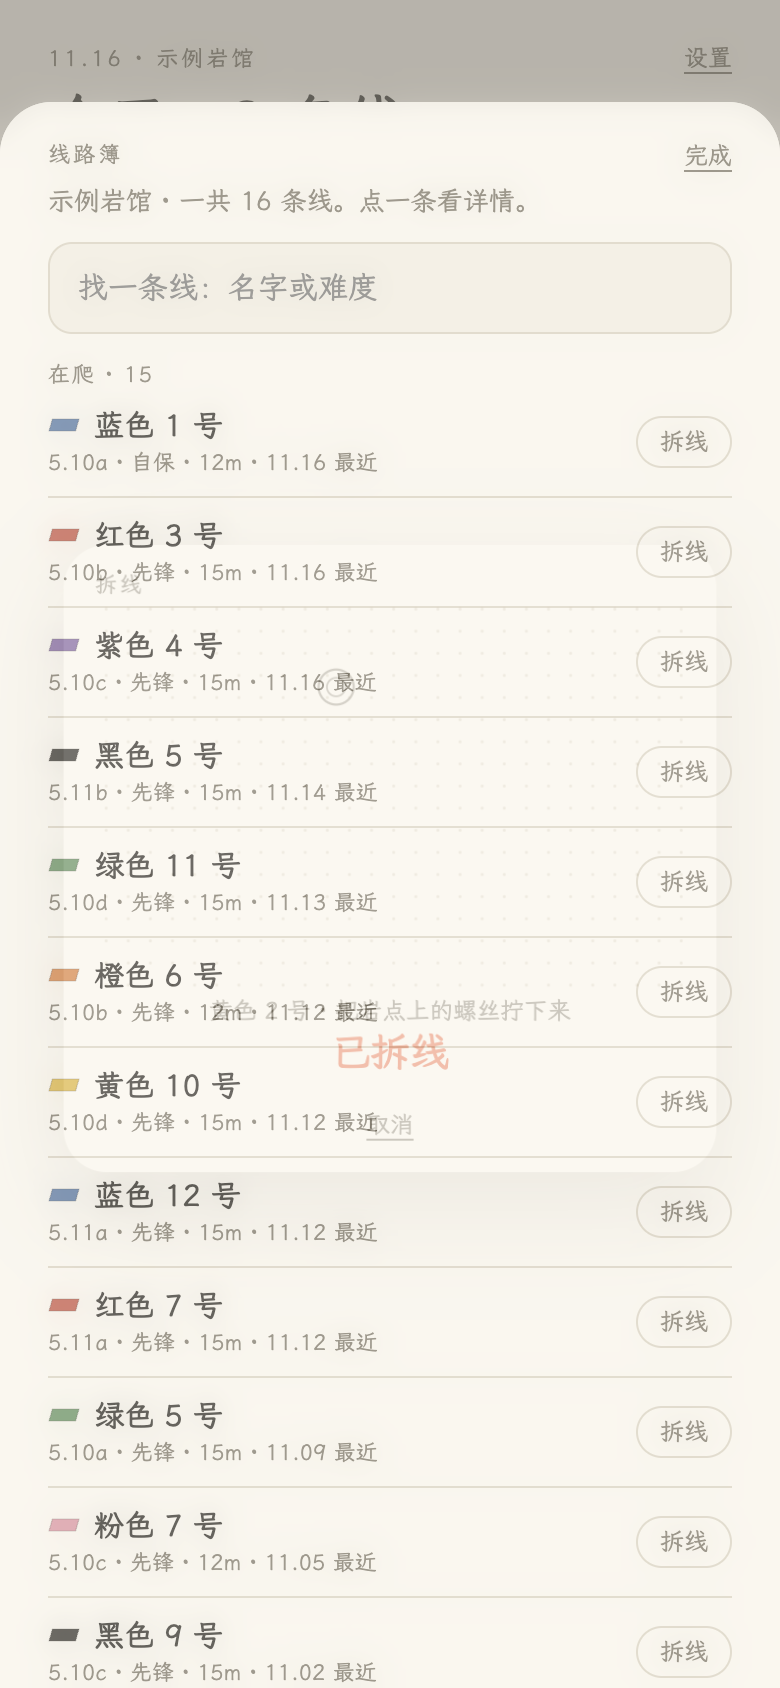
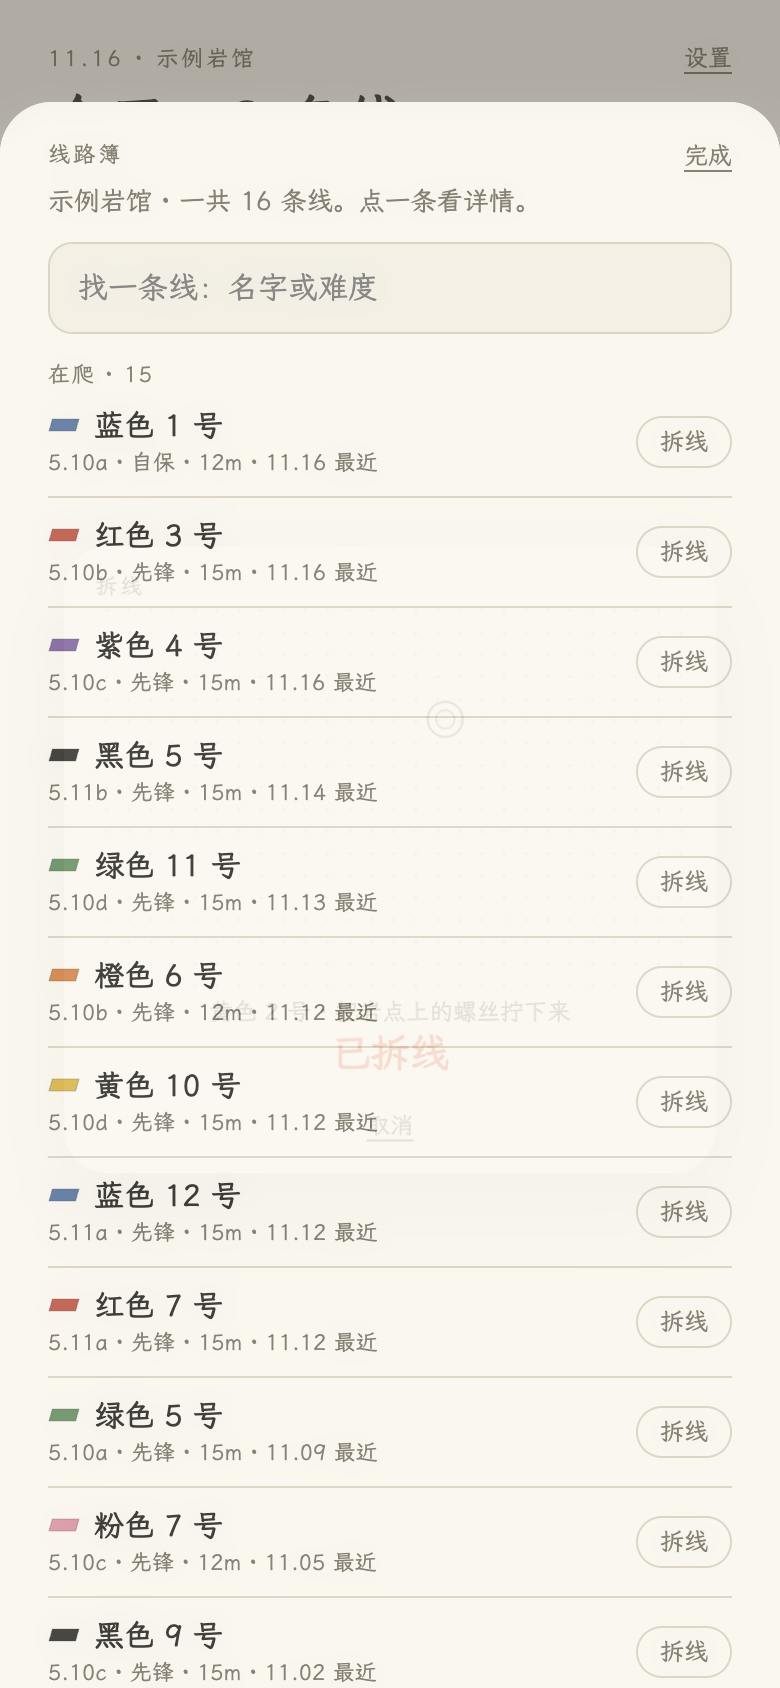
拆线动画：岩点换成深口袋（pocket）造型，倾斜摆放，加强孔洞内阴影

diff --git a/shengji-prototype.html b/shengji-prototype.html
@@ -689,27 +689,29 @@ function startStrip(rid,back){
     <svg viewBox="0 0 320 214" width="100%" style="display:block" fill="none" stroke="var(--ink)" stroke-linecap="round" stroke-linejoin="round">
       <defs><pattern id="stripDots" width="12" height="12" patternUnits="userSpaceOnUse"><circle cx="6" cy="6" r=".8" fill="var(--hair)" stroke="none"/></pattern></defs>
       <rect width="320" height="214" fill="url(#stripDots)" stroke="none"/>
-      <g id="stSocket"><circle cx="130.8" cy="48.3" r="9.5" stroke="var(--muted)" stroke-width="1.2" opacity=".8"/><circle cx="130.8" cy="48.3" r="5" stroke="var(--muted)" stroke-width="1" opacity=".7"/></g>
-      <g id="stHold">
-        <path d="M89.2 34.1C95.3 31.3 104.7 30.6 111.6 31.2C118.5 31.9 124.4 35.1 130.8 38.0C137.2 40.9 144.1 44.6 150.0 48.3C155.9 52.0 160.4 56.0 166.0 60.2C171.6 64.4 180.0 69.3 183.6 73.5C187.2 77.7 188.6 80.1 187.8 85.3C187.0 90.5 183.0 97.9 178.8 104.6C174.6 111.3 168.1 118.9 162.8 125.3C157.5 131.7 152.1 137.6 146.8 143.0C141.5 148.4 136.1 153.1 130.8 157.8C125.5 162.5 120.1 167.7 114.8 171.1C109.5 174.5 104.4 178.5 98.8 178.5C93.2 178.5 85.5 175.0 81.2 171.1C76.9 167.2 75.2 161.1 73.2 154.9C71.2 148.7 70.2 141.5 69.4 134.1C68.6 126.7 68.3 118.4 68.4 110.5C68.5 102.6 69.5 94.2 70.0 86.8C70.5 79.4 70.8 72.5 71.6 66.1C72.4 59.7 71.9 53.6 74.8 48.3C77.7 43.0 83.1 37.0 89.2 34.1Z" fill="var(--paper)" stroke-width="1.7"/>
-        <path d="M92.7 42.1C98.1 39.6 106.3 39.0 112.4 39.6C118.5 40.2 123.6 43.1 129.3 45.6C134.9 48.1 141.0 51.4 146.2 54.6C151.3 57.9 155.3 61.4 160.2 65.1C165.2 68.8 172.5 73.1 175.7 76.8C178.9 80.5 180.1 82.6 179.4 87.2C178.7 91.8 175.2 98.3 171.5 104.2C167.8 110.1 162.1 116.8 157.4 122.4C152.7 128.0 148.0 133.2 143.3 138.0C138.7 142.7 134.0 146.9 129.3 151.0C124.6 155.1 119.9 159.7 115.2 162.7C110.5 165.7 106.0 169.2 101.1 169.2C96.2 169.2 89.4 166.2 85.6 162.7C81.9 159.2 80.3 153.9 78.6 148.4C76.8 143.0 75.9 136.7 75.2 130.1C74.5 123.6 74.3 116.3 74.4 109.4C74.4 102.4 75.3 95.0 75.8 88.5C76.2 82.0 76.5 76.0 77.2 70.3C77.9 64.7 77.4 59.3 80.0 54.6C82.6 49.9 87.3 44.7 92.7 42.1Z" stroke="var(--muted)" stroke-width="1" opacity=".45"/>
-        <circle cx="100.5" cy="72" r=".9" fill="var(--muted)" stroke="none" opacity=".55"/>
-        <circle cx="116" cy="96" r=".9" fill="var(--muted)" stroke="none" opacity=".55"/>
-        <circle cx="99" cy="118" r=".9" fill="var(--muted)" stroke="none" opacity=".5"/>
-        <circle cx="130.8" cy="48.3" r="13" stroke-width="1.1" opacity=".55"/>
-        <circle cx="111" cy="140.1" r="3.4" stroke-width="1.1" opacity=".5"/>
+      <g id="stSocket"><circle cx="190" cy="65" r="9.5" stroke="var(--muted)" stroke-width="1.2" opacity=".8"/><circle cx="190" cy="65" r="5" stroke="var(--muted)" stroke-width="1" opacity=".7"/></g>
+      <g id="stHold" transform="rotate(-8 146 110)">
+        <path d="M100 66C106 52 120 42 138 38C158 34 180 40 194 54C206 66 213 84 214 100C215 120 208 140 196 154C184 168 168 178 150 180C132 182 114 177 100 166C86 155 78 138 78 120C78 102 84 82 96 70C97 69 99 67 100 66Z" fill="var(--paper)" stroke-width="1.8"/>
+        <path d="M106 74C116 60 132 52 148 50C166 48 184 55 196 66" stroke="var(--muted)" stroke-width="1" opacity=".42"/>
+        <path d="M90 148C102 160 120 168 138 166" stroke="var(--muted)" stroke-width="1.1" opacity=".35"/>
+        <path d="M112 82C118 77 125 74 132 73" stroke="var(--muted)" stroke-width="1" opacity=".3"/>
+        <ellipse cx="138" cy="116" rx="36" ry="27" stroke-width="1.8" fill="#1F1D19" fill-opacity=".06"/>
+        <ellipse cx="134" cy="111" rx="25" ry="18" stroke="var(--muted)" stroke-width="1.1"/>
+        <path d="M112 128a28 28 0 0 0 25 9" stroke="var(--muted)" stroke-width="1.5" opacity=".75"/><path d="M120 122a24 24 0 0 0 14 6" stroke="var(--muted)" stroke-width="1" opacity=".4"/>
+        <circle cx="196" cy="72" r="13" stroke-width="1.2" opacity=".55"/>
+        <circle cx="92" cy="156" r="3.4" stroke-width="1.1" opacity=".5"/>
       </g>
       <g id="stBolt">
-        <circle cx="130.8" cy="48.3" r="8.5" fill="var(--card)" stroke-width="1.4"/>
-        <path d="M130.8 43.8l3.9 2.25v4.5l-3.9 2.25-3.9-2.25v-4.5z" fill="var(--ink)" stroke="none"/>
+        <circle cx="190" cy="65" r="8.5" fill="var(--card)" stroke-width="1.4"/>
+        <path d="M190 60.5l3.9 2.25v4.5l-3.9 2.25-3.9-2.25v-4.5z" fill="var(--ink)" stroke="none"/>
       </g>
       <g id="stSpin" opacity="0">
-        <path d="M146.8 35.3a20 20 0 0 1 5 12" stroke-width="1.2"/>
-        <path d="M114.8 61.3a20 20 0 0 1-5-12" stroke-width="1.2"/>
-        <path d="M138.8 65.3a20 20 0 0 1-8 3" stroke-width="1.2"/>
-        <path d="M122.8 31.3a20 20 0 0 1 8-3" stroke-width="1.2"/>
+        <path d="M206 52a20 20 0 0 1 5 12" stroke-width="1.2"/>
+        <path d="M174 78a20 20 0 0 1-5-12" stroke-width="1.2"/>
+        <path d="M198 82a20 20 0 0 1-8 3" stroke-width="1.2"/>
+        <path d="M182 48a20 20 0 0 1 8-3" stroke-width="1.2"/>
       </g>
-      <g id="stToolWrap"><g transform="translate(194 48) rotate(-6)">
+      <g id="stToolWrap"><g transform="translate(252 65) rotate(-6)">
         <path d="M-54-1.7l7 1.7-7 1.7z" fill="var(--ink)" stroke="none"/>
         <rect x="-50" y="-3.2" width="13" height="6.4" rx="1.2" stroke-width="1.2" fill="var(--card)"/>
         <rect x="-38" y="-7" width="12" height="14" rx="2.2" stroke-width="1.4" fill="var(--card)"/>

diff --git a/产品文档.md b/产品文档.md
@@ -152,7 +152,7 @@
 - **回放**：绳索线路 ≥2 次时可用，按当前筛选重演；字幕标出第几次、日期、方式、结果。
 - 每一次列表：结果 + 原因 + 第几次 + 日期 + 实际方式（先锋 / 顶绳 / 自保）。没有筛选时也能看出每条记录是什么方式。
 - 再记一次：默认用当前筛选的方式。
-- **拆线**：点「拆线」后弹出一个**全屏居中的小工位**，背景是当前页（线路簿或详情页）模糊处理，**不切换页面**：电动螺丝刀伸向岩点（大把手 jug），把 M10 内六角螺丝拧下来；螺丝带着磁性吸在批头上，随工具一起抽走；岩点失去固定后晃动、掉落，墙上留下一个螺丝孔，最后显示「已拆线」。约 3.2 秒，动画期间可点「取消」。拆线可逆，之后随时能装回去。
+- **拆线**：点「拆线」后弹出一个**全屏居中的小工位**，背景是当前页（线路簿或详情页）模糊处理，**不切换页面**：电动螺丝刀伸向岩点（深口袋 pocket 岩点），把 M10 内六角螺丝拧下来；螺丝带着磁性吸在批头上，随工具一起抽走；岩点失去固定后晃动、掉落，墙上留下一个螺丝孔，最后显示「已拆线」。约 3.2 秒，动画期间可点「取消」。拆线可逆，之后随时能装回去。
 - 管理：改名、拆线 / 装回去、合并同名双胞胎、删除（丝扣锁确认）。
 - 截图：`docs/一条线-按方式筛选.png`；拆线动画：`docs/拆线-拧螺丝.png`、`docs/拆线-磁吸.png`、`docs/拆线-已拆线.png`、`docs/一条线-已拆线.png`
 
@@ -358,7 +358,7 @@ data = {
 - **实现**：
   - 线路簿：这家岩馆的全部线分「在爬 / 已拆线」，可搜索，行尾直接拆线 / 装回去；入口在记一条线面板和设置里。
   - 文案统一：撤线 → 拆线，已撤 → 已拆线，恢复 → 装回去。
-  - 拆线动画（v0.3.2 重做）：全屏居中、背景模糊、不换页；岩点参照真实大把手（jug）重画；螺丝是 M10 内六角圆柱头（ISO 4762），比岩点小很多；拧出后被批头磁吸，随工具一起离开；岩点掉落、墙上留下螺丝孔；约 3.2 秒，可取消，`prefers-reduced-motion` 时跳过动画直接完成。
+  - 拆线动画（v0.3.2 重做）：全屏居中、背景模糊、不换页；岩点参照真实口袋（pocket）岩点重画（大指洞 + 内圈倒角 + 安装孔，倾斜摆放）；螺丝是 M10 内六角圆柱头（ISO 4762），比岩点小很多；拧出后被批头磁吸，随工具一起离开；岩点掉落、墙上留下螺丝孔；约 3.2 秒，可取消，`prefers-reduced-motion` 时跳过动画直接完成。
   - 拆线可逆：已拆线的成绩仍算在阶里（成绩不因拆线抹掉），但「正在磕」不再把它算进去；同名冲突的装回仍走合并 / 改名。
 - 截图：`docs/线路簿.png`、`docs/拆线-拧螺丝.png`、`docs/拆线-已拆线.png`、`docs/一条线-已拆线.png`
 
@@ -463,7 +463,7 @@ data = {
 | v0.2 | 2026-11-16 | 方式归每次攀爬（本次方式切换、按线路+方式聚合、统计口径全部改用 climb.mode）；线路详情支持按方式筛选（线路图 / 回放 / 记录列表 / 再记一次跟随）；阶页重构（三张方式卡 + 金字塔 + 方式落差卡，自保并入上方保护）；示例数据补充顶绳记录 |
 | v0.3 | 2026-11-16 | 观景台（9.3）：14 座山 61 站，山页刻度 / 到站卡 / 山 tab 角标 / 登顶册时间线；示例数据补到山段 |
 | v0.3.1 | 2026-11-16 | 线路簿 + 拆线动画（9.4）；文案统一为拆线 / 已拆线 / 装回去 |
-| v0.3.2 | 2026-11-16 | 拆线动画重做：全屏居中 + 背景模糊不换页；岩点参照真实 jug；M10 螺丝 + 磁吸细节；放慢到约 3.2 秒 |
+| v0.3.2 | 2026-11-16 | 拆线动画重做：全屏居中 + 背景模糊不换页；岩点换成深口袋（pocket）造型；M10 螺丝 + 磁吸细节；放慢到约 3.2 秒 |
 | v0.4 | 待开发 | 分享卡（11.9） |
 
 ---
